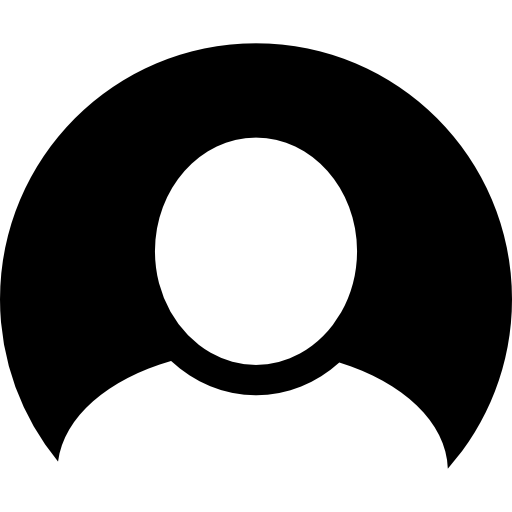
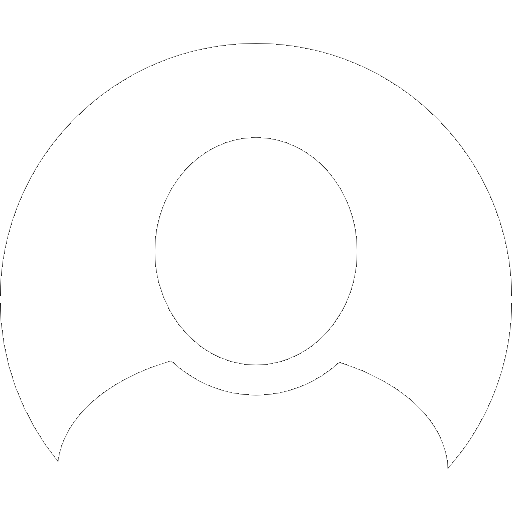
mexendo com a dashboard

diff --git a/site/public/dashboard/html/home.html b/site/public/dashboard/html/home.html
@@ -36,8 +36,7 @@
         <div class="container">
 
             <nav>
-                <li><img src="../../assets/icon-lua.png" class="icone-tema" id="tema" style="display: none;"></li>
-                <li><img src="../assets/home/logoEscura.png" class="logo" id="logoImagem"></li>
+                
             </nav>
 
             <div class="kpi-dados caixa" id="caixa2">
@@ -48,9 +47,9 @@
                         <div class="text-geral" id="text-geral2">Computadores sendo monitorados: <span id="maquinas_monitoradas_agora">0</span>/<span class="maquinas_monitoradas_total">0</span></div>
                     </div>
 
-                    <div class="legenda text-geral" id="text-geral3">
-                        <span id="text-geral4">Legenda</span><button onclick="legenda_box() "><img src="../assets/home/simbolo-de-informacao.png"></button>
-                    </div>
+                    <!-- <div class="legenda text-geral" id="text-geral3">
+                        <span id="text-geral4" onclick="legenda_box()">Legenda</span><button onclick="legenda_box() "><img src="../assets/home/simbolo-de-informacao-branco.png"></button>
+                    </div> -->
 
                 </div>
                 
@@ -121,19 +120,25 @@
 
                 <div class="box-analise caixa" id="caixa3">
                     <span class="text-geral" id="text-geral9">Computadores sem retorno</span>
-                    <img class="icone-alerta" id="icone-pc" src="../assets/home/trabalho-em-progresso.png">
+                    <img class="icone-alerta" id="icone-pc" src="../assets/home/trabalho-em-progresso-branco.png">
                     <span id="vka2" class="valores-kpi-alerta">0</span>
                 </div>
 
                 <div class="box-analise caixa" id="caixa4">
                     <span class="text-geral" id="text-geral10">Computadores com 2+ alertas vermelhos</span>
-                    <img class="icone-alerta" id="icone-alerta" src="../assets/home/alerta.png">
+                    <img class="icone-alerta" id="icone-alerta" src="../assets/home/alerta-branco.png">
                     <span id="vka1" class="valores-kpi-alerta">0</span>
                 </div>
 
                 <div class="box-analise caixa" id="caixa5">
                     <span class="text-geral" id="text-geral11">Grafico aqui</span>
                 </div>
+
+            </div>
+        </div>
+
+        <div id="modal_legenda_capturas" class="modal">
+            <div class="caixa captura">
 
             </div>
         </div>

diff --git a/site/public/dashboard/css/home.css b/site/public/dashboard/css/home.css
@@ -29,7 +29,7 @@ body {
 }
 
 .titulo {
-    font-size: 30pt;
+    font-size: 25pt;
 }
 
 .right-side-window .container {
@@ -133,3 +133,41 @@ body {
     align-items: center;
     text-align: center;
 }
+
+/* Modal */
+/* 
+.modal {
+    height: 100vh;
+    width: 100vw;
+    display: none;
+    background-color: #0000006b;
+    z-index: 100;
+    position: absolute;
+    left: 0;
+    top: 0;
+    margin: 0 auto;
+}
+
+.modal .caixa {
+    margin-left: 40%;
+    margin-top: 10%;
+    display: flex;
+    flex-direction: column;
+    align-items: center;
+    justify-content: center;
+}
+
+.modal .captura {
+    width: 500px;
+    height: 400px;
+}
+
+.modal .caixa .legenda-captura-modal {
+    height: 60%;
+    width: 90%;
+    display: flex;
+    flex-direction: column;
+    justify-content: space-around;
+    align-items: center;
+    text-align: center;
+} */

diff --git a/site/public/dashboard/css/usuarios.css b/site/public/dashboard/css/usuarios.css
@@ -120,6 +120,7 @@ body {
     margin-top: 7px;
     background-color: #fff;
     color: black;
+    border-radius: 3px;
 }
 
 .linha-tabela img {

diff --git a/site/public/dashboard/js/home.js b/site/public/dashboard/js/home.js
@@ -132,3 +132,8 @@ function trocarTema() {
         temaClaro = true;
     }
 }
+
+
+function legenda_box(){
+    
+}

diff --git a/site/public/dashboard/css/geral.css b/site/public/dashboard/css/geral.css
@@ -40,7 +40,7 @@ li {
 }
 
 .text-geral {
-    font-size: 22pt;
+    font-size: 19pt;
 }
 
 .right-side-window {
